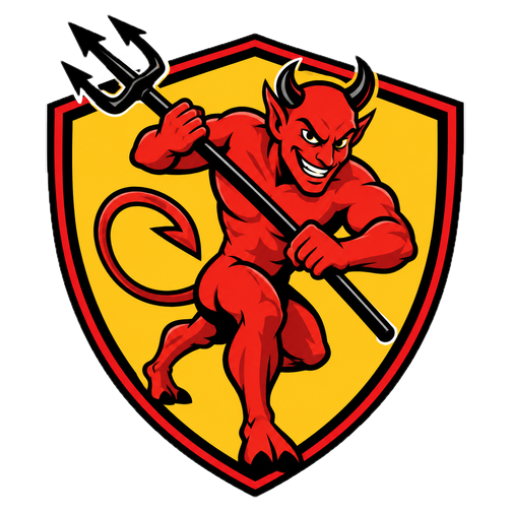
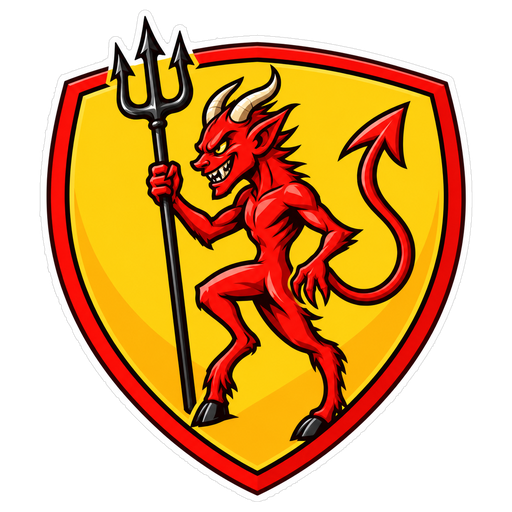
Man Utd crest: lean demon sticker, trident over the border

diff --git a/frontend/src/data/avatars.ts b/frontend/src/data/avatars.ts
@@ -33,7 +33,7 @@ const CLUB_BY_NAME = new Map(
 
 // "?v=" makes phones fetch a crest again after its picture is replaced
 // (Telegram's web view keeps the old file otherwise). Raise it with each new set.
-const CREST_VERSION = '2026-11-25d'
+const CREST_VERSION = '2026-11-25e'
 export const clubBadge = (name?: string | null): string | null => {
   const src = (name && (CLUB_BY_NAME.get(name) || EXTRA_SHIELDS[name])) || null
   return src ? `${src}?v=${CREST_VERSION}` : null

diff --git a/changelogs/CHANGELOG-2026-11-22-release-2.2-prep.md b/changelogs/CHANGELOG-2026-11-22-release-2.2-prep.md
@@ -103,3 +103,4 @@ Files: `frontend/public/avatars/clubs/*.png` (512 px), `frontend/src/styles/Chal
 - 25 Nov: Arsenal v2 (no wooden block) on DEV, checked at 3x; live waits for "deploy".
 - 25 Nov: Arsenal v2 DEPLOYED LIVE (release-2.1 618f116), checked live at 3x. New crest style (straight sticker, even white edge) agreed; other clubs to follow one by one.
 - 25 Nov: Liverpool new Liver bird on DEV, checked at 3x; Man Utd prompt redone (slim impish devil, not bodybuilder), waiting picture.
+- 25 Nov: Man Utd new demon (lean, hooves, trident over the border) on DEV, checked at 3x. END OF DAY: Liverpool + Man Utd on dev, committed on release-2.1, NOT live -> owner says "deploy" next session. Next clubs in the new style: owner picks one by one.
